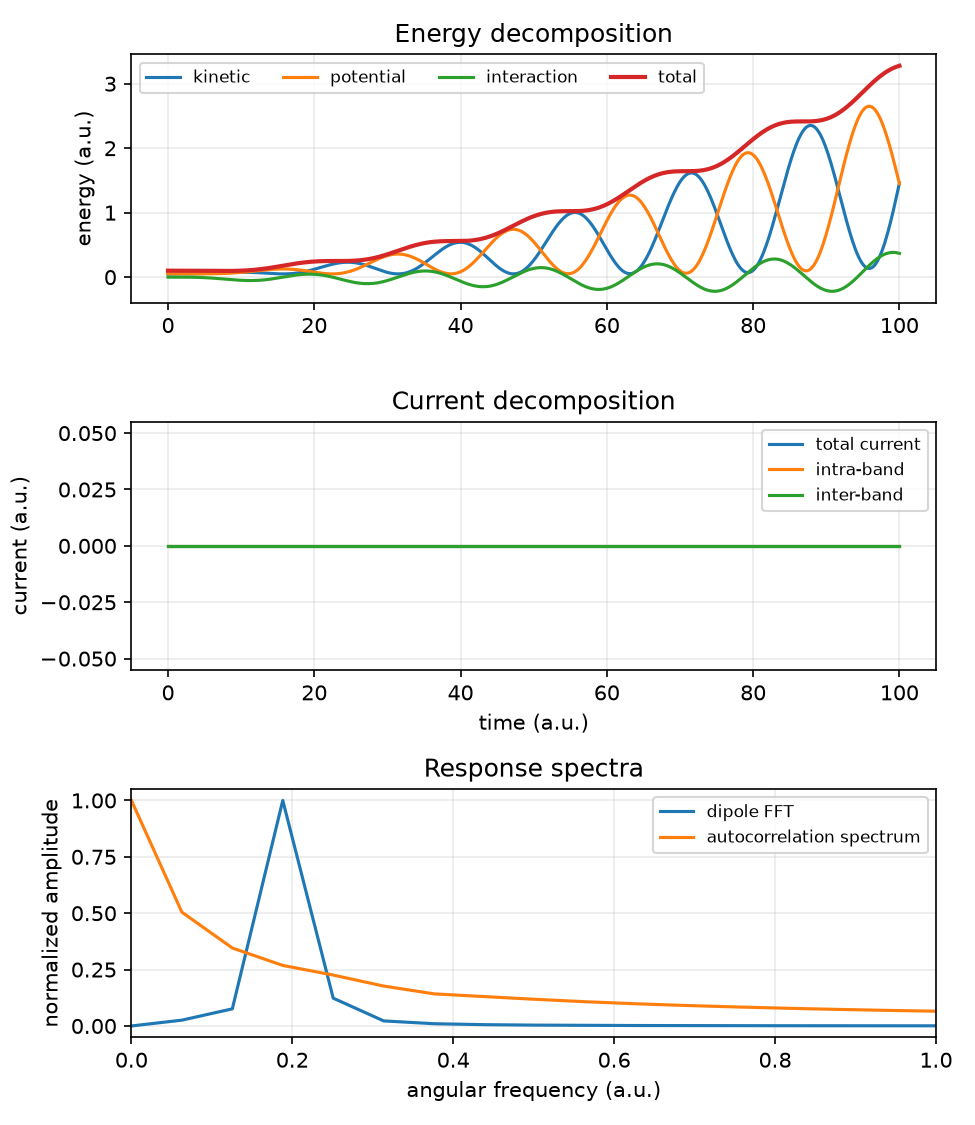
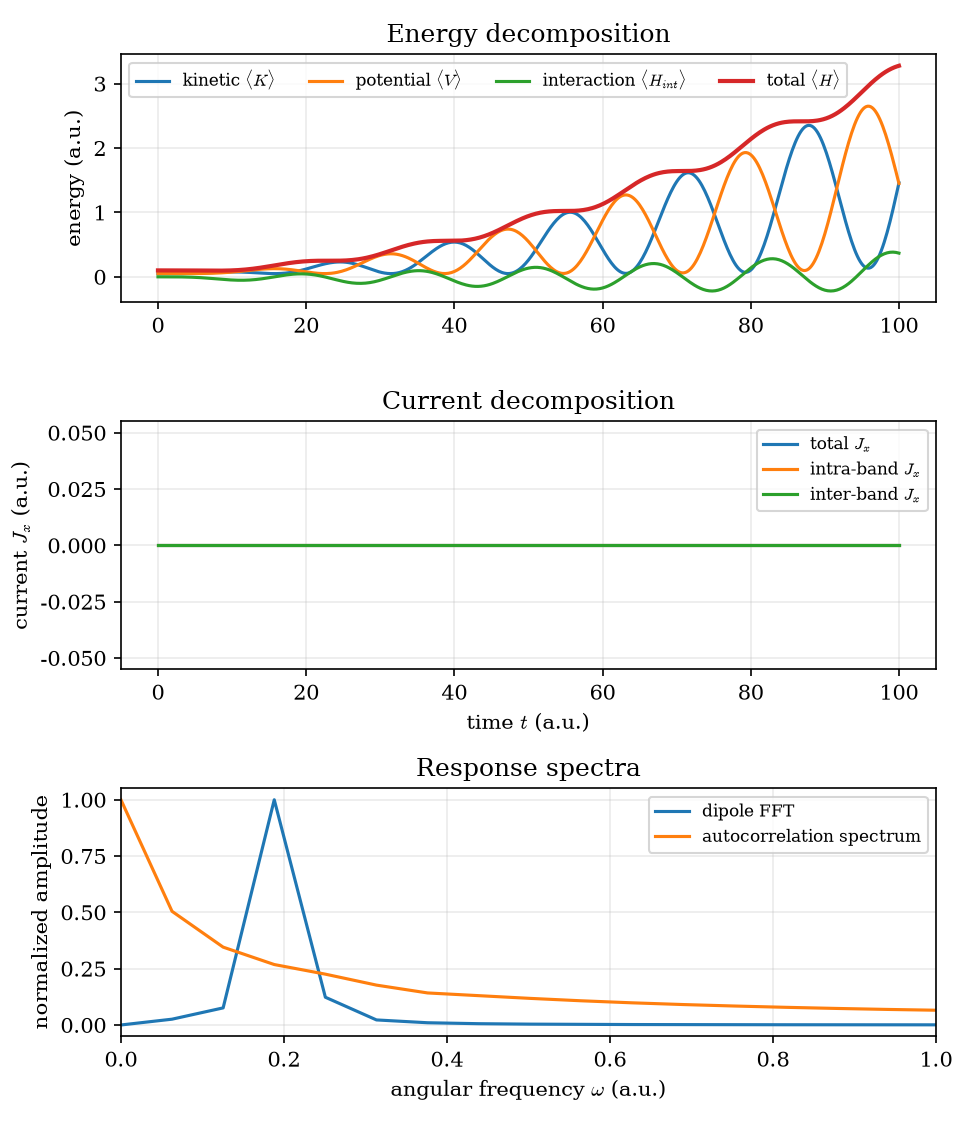
fixed tex rendering

diff --git a/examples/run_quick_examples.py b/examples/run_quick_examples.py
@@ -21,17 +21,29 @@ CASES = {
 }
 
 
-def plot_spectrum(values: np.ndarray, expected: np.ndarray, path: Path, title: str) -> None:
+def configure_matplotlib() -> None:
+    """Use a LaTeX-like serif style without requiring a TeX installation."""
     import matplotlib
 
     matplotlib.use("Agg")
+    matplotlib.rcParams.update(
+        {
+            "font.family": "serif",
+            "mathtext.fontset": "cm",
+            "axes.unicode_minus": False,
+        }
+    )
+
+
+def plot_spectrum(values: np.ndarray, expected: np.ndarray, path: Path, title: str) -> None:
+    configure_matplotlib()
     import matplotlib.pyplot as plt
 
     indices = np.arange(len(values))
     fig, ax = plt.subplots(figsize=(5.5, 3.5))
     ax.scatter(indices, values, label="TDSEZ", zorder=3)
     ax.scatter(indices, expected, marker="x", label="analytic", zorder=3)
-    ax.set(xlabel="state index", ylabel="energy (a.u.)", title=title)
+    ax.set(xlabel=r"state index $n$", ylabel=r"energy $E_n$ (a.u.)", title=title)
     ax.grid(alpha=0.25)
     ax.legend()
     fig.tight_layout()
@@ -40,9 +52,7 @@ def plot_spectrum(values: np.ndarray, expected: np.ndarray, path: Path, title: s
 
 
 def plot_heterostructure(values: np.ndarray, path: Path, profile_path: Path) -> None:
-    import matplotlib
-
-    matplotlib.use("Agg")
+    configure_matplotlib()
     import matplotlib.pyplot as plt
 
     x = np.linspace(-15.0, 15.0, 1200)
@@ -76,9 +86,7 @@ def plot_heterostructure(values: np.ndarray, path: Path, profile_path: Path) -> 
 
 
 def plot_rabi(evolution_path: Path, output_path: Path, csv_path: Path) -> None:
-    import matplotlib
-
-    matplotlib.use("Agg")
+    configure_matplotlib()
     import matplotlib.pyplot as plt
 
     evolution = read_evolution(evolution_path)
@@ -96,13 +104,25 @@ def plot_rabi(evolution_path: Path, output_path: Path, csv_path: Path) -> None:
     fig, (population_ax, response_ax) = plt.subplots(2, 1, figsize=(6, 5), sharex=True)
     for state, values in enumerate(populations.T):
         population_ax.plot(evolution.time, values, label=f"P{state}")
+    # Two-level rotating-wave estimate for comparison with the full propagation.
+    omega = 0.2
+    field_amplitude = 0.05
+    dipole_01 = np.sqrt(1.0 / (2.0 * omega))
+    rabi_reference = np.sin(0.25 * field_amplitude * dipole_01 * evolution.time) ** 2
+    population_ax.plot(
+        evolution.time,
+        rabi_reference,
+        "k--",
+        linewidth=1.0,
+        label=r"two-level RWA $\sin^2(\Omega_R t/2)$",
+    )
     population_ax.set_ylabel("bound-state population")
     population_ax.set_ylim(-0.02, 1.05)
     population_ax.grid(alpha=0.25)
     population_ax.legend(ncol=3)
-    response_ax.plot(evolution.time, field, label="field E_x(t)", color="tab:orange")
-    response_ax.plot(evolution.time, dipole, label="dipole <x>", color="tab:blue")
-    response_ax.set(xlabel="time (a.u.)", ylabel="response (a.u.)")
+    response_ax.plot(evolution.time, field, label=r"field $E_x(t)$", color="tab:orange")
+    response_ax.plot(evolution.time, dipole, label=r"dipole $\langle x\rangle$", color="tab:blue")
+    response_ax.set(xlabel=r"time $t$ (a.u.)", ylabel="response (a.u.)")
     response_ax.grid(alpha=0.25)
     response_ax.legend()
     fig.suptitle("Driven 1D oscillator: Rabi-style population transfer")
@@ -113,9 +133,7 @@ def plot_rabi(evolution_path: Path, output_path: Path, csv_path: Path) -> None:
 
 def plot_observables(evolution, case_dir: Path) -> None:
     """Plot energy conservation, current decomposition, and spectra."""
-    import matplotlib
-
-    matplotlib.use("Agg")
+    configure_matplotlib()
     import matplotlib.pyplot as plt
 
     time = evolution.time
@@ -129,18 +147,20 @@ def plot_observables(evolution, case_dir: Path) -> None:
     autocorrelation_spectrum = np.abs(np.fft.fft(autocorrelation)[: frequency.size])
 
     fig, axes = plt.subplots(3, 1, figsize=(6.5, 7.5), sharex=False)
-    axes[0].plot(time, energy[:, 1], label="kinetic")
-    axes[0].plot(time, energy[:, 2], label="potential")
-    axes[0].plot(time, energy[:, 3], label="interaction")
-    axes[0].plot(time, energy[:, 4], label="total", linewidth=2)
-    axes[0].set_ylabel("energy (a.u.)")
+    axes[0].plot(time, energy[:, 1], label=r"kinetic $\langle K\rangle$")
+    axes[0].plot(time, energy[:, 2], label=r"potential $\langle V\rangle$")
+    axes[0].plot(time, energy[:, 3], label=r"interaction $\langle H_{int}\rangle$")
+    axes[0].plot(time, energy[:, 4], label=r"total $\langle H\rangle$", linewidth=2)
+    axes[0].set_ylabel(r"energy (a.u.)")
     axes[0].set_title("Energy decomposition")
     axes[0].grid(alpha=0.25)
     axes[0].legend(ncol=4, fontsize=8)
-    axes[1].plot(time, current[:, 3], label="total current")
-    axes[1].plot(time, current[:, 6], label="intra-band")
-    axes[1].plot(time, current[:, 9], label="inter-band")
-    axes[1].set(xlabel="time (a.u.)", ylabel="current (a.u.)", title="Current decomposition")
+    axes[1].plot(time, current[:, 3], label=r"total $J_x$")
+    axes[1].plot(time, current[:, 6], label=r"intra-band $J_x$")
+    axes[1].plot(time, current[:, 9], label=r"inter-band $J_x$")
+    axes[1].set(
+        xlabel=r"time $t$ (a.u.)", ylabel=r"current $J_x$ (a.u.)", title="Current decomposition"
+    )
     axes[1].grid(alpha=0.25)
     axes[1].legend(fontsize=8)
     axes[2].plot(frequency, dipole_spectrum / max(dipole_spectrum.max(), 1e-30), label="dipole FFT")
@@ -150,7 +170,9 @@ def plot_observables(evolution, case_dir: Path) -> None:
         label="autocorrelation spectrum",
     )
     axes[2].set(
-        xlabel="angular frequency (a.u.)", ylabel="normalized amplitude", title="Response spectra"
+        xlabel=r"angular frequency $\omega$ (a.u.)",
+        ylabel="normalized amplitude",
+        title="Response spectra",
     )
     axes[2].set_xlim(0, 1.0)
     axes[2].grid(alpha=0.25)

diff --git a/docs/examples/quick-oscillators.rst b/docs/examples/quick-oscillators.rst
@@ -20,6 +20,14 @@ PNG plots below ``examples/output``.  Use ``--case 1d`` or ``--case 2d`` to
 run only one dimension.  The expected energies are ``[0.1, 0.3, 0.5]`` in 1D
 and ``[0.2, 0.4, 0.4, 0.6, 0.6, 0.6]`` in 2D (atomic units).
 
+For the oscillator checks, the analytic references are
+
+.. math::
+
+   E_n^{(1D)} = \hbar\omega\left(n+\tfrac12\right),
+   \qquad
+   E_{n_x,n_y}^{(2D)} = \hbar\omega\left(n_x+n_y+1\right).
+
 The runner also includes a finite quantum-well heterostructure:
 
 .. code-block:: bash
@@ -48,6 +56,17 @@ The resulting ``rabi-populations-response.png`` contains bound-state
 populations, the applied electric field, and the dipole response.  The CSV
 file contains those observables for further Fourier, susceptibility, or
 quantum-beating analysis.
+
+The dashed curve is the analytic two-level rotating-wave estimate
+
+.. math::
+
+   P_1(t) \simeq \sin^2\!\left(\frac{E_0 |x_{01}| t}{4}\right),
+   \qquad |x_{01}|=\sqrt{\frac{\hbar}{2m\omega}},
+
+with ``E0 = 0.05`` and ``omega = 0.2`` in atomic units.  The TDSEZ curves
+retain the full three-state dynamics, so their difference from this dashed
+reference shows where the two-level approximation breaks down.
 
 .. image:: ../_static/examples/ho1d-rabi-populations-response.png
    :alt: Rabi-style bound-state populations, laser field, and dipole response
